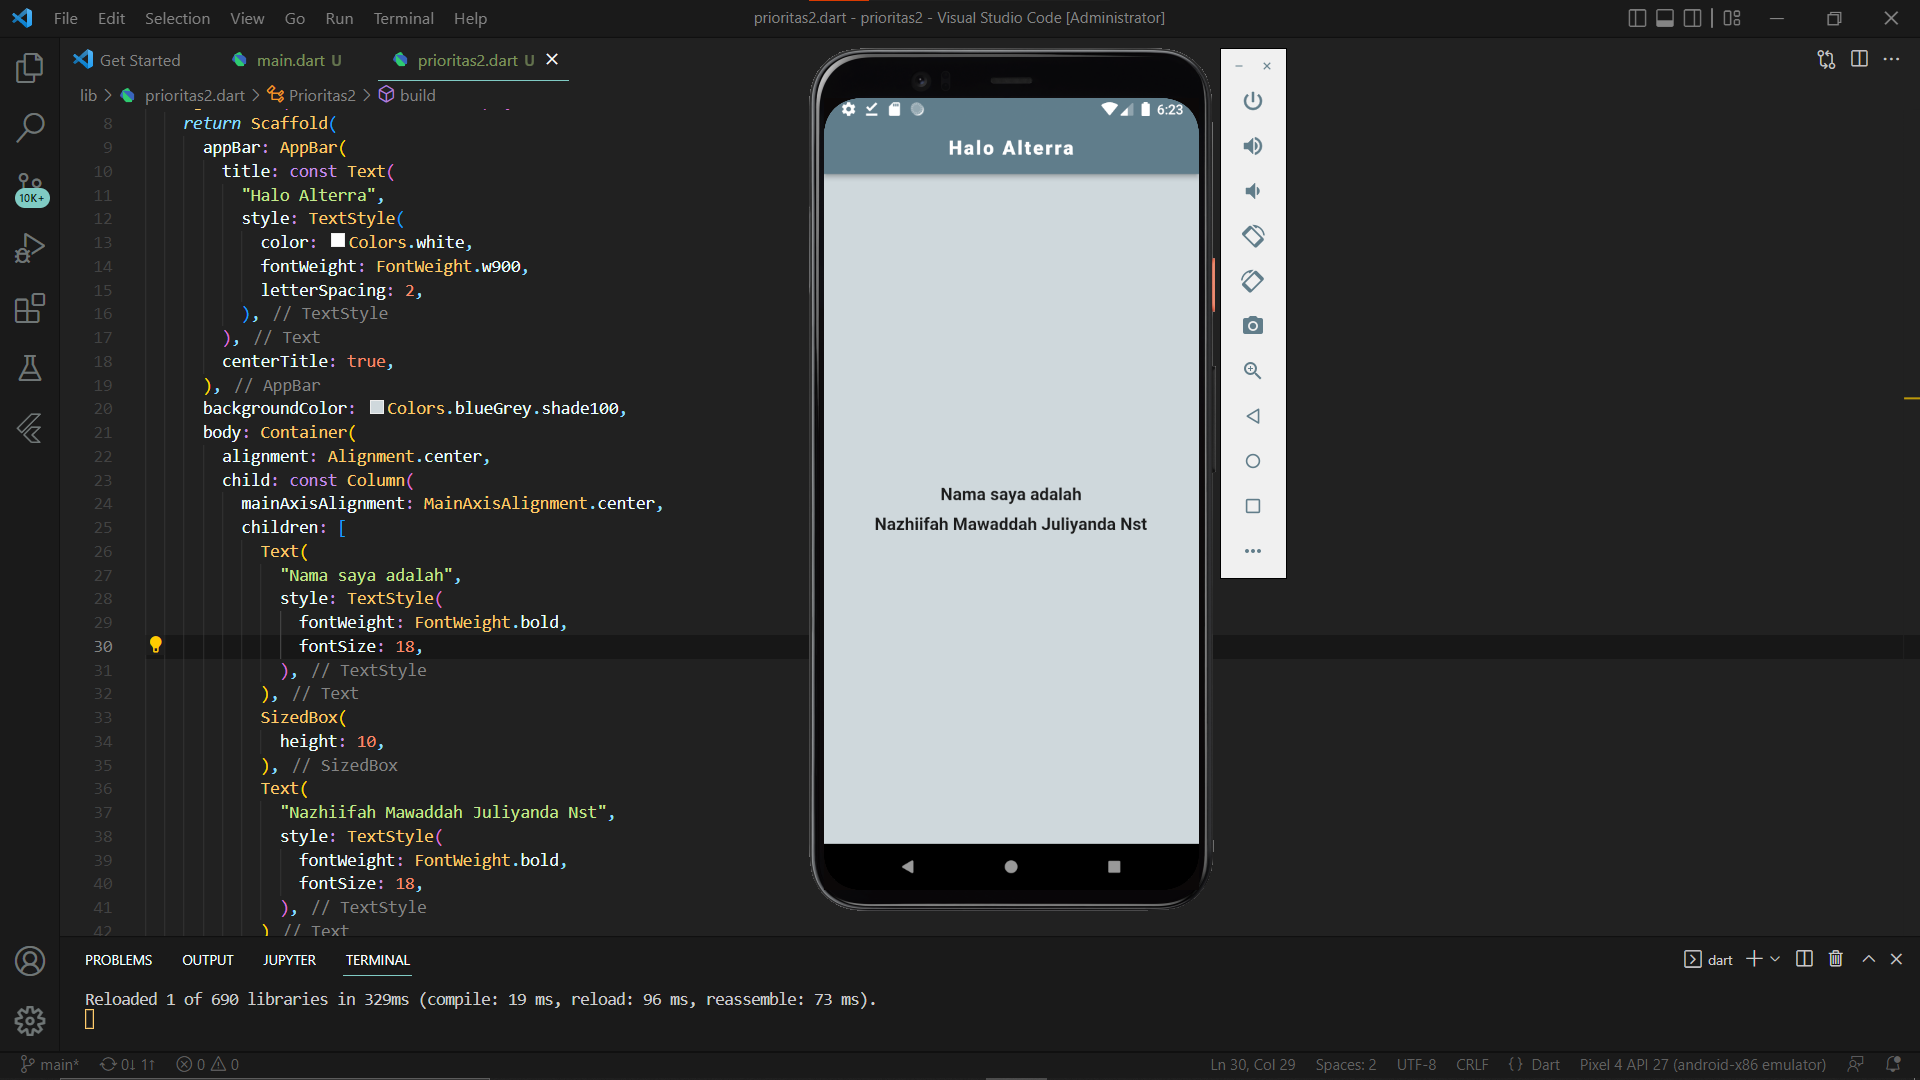
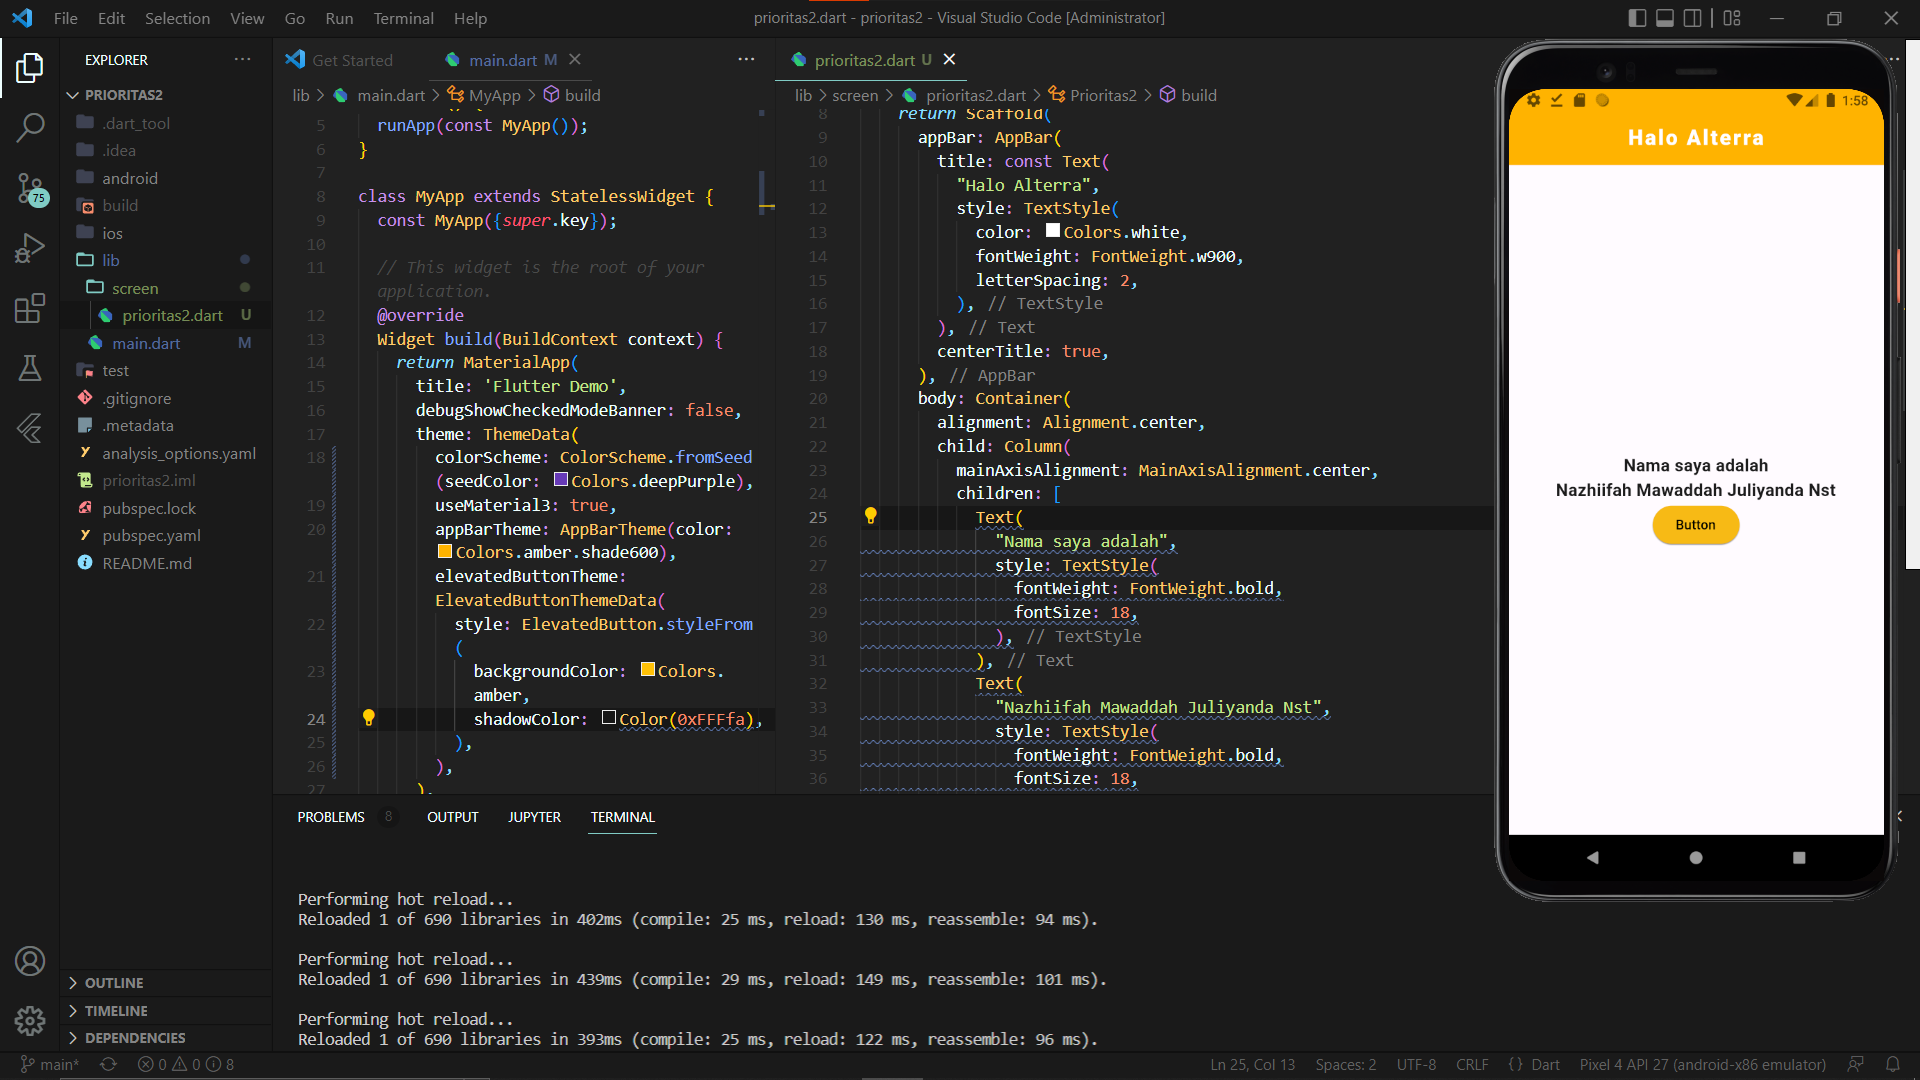
update tugas 9

diff --git a/09_Installation_Command_Line_Interface_and_Package_Management_in_Flutter/praktikum/prioritas2/lib/screen/prioritas2.dart b/09_Installation_Command_Line_Interface_and_Package_Management_in_Flutter/praktikum/prioritas2/lib/screen/prioritas2.dart
@@ -17,10 +17,9 @@ class Prioritas2 extends StatelessWidget {
         ),
         centerTitle: true,
       ),
-      backgroundColor: Colors.blueGrey.shade100,
       body: Container(
         alignment: Alignment.center,
-        child: const Column(
+        child: Column(
           mainAxisAlignment: MainAxisAlignment.center,
           children: [
             Text(
@@ -30,14 +29,20 @@ class Prioritas2 extends StatelessWidget {
                 fontSize: 18,
               ),
             ),
-            SizedBox(
-              height: 10,
-            ),
             Text(
               "Nazhiifah Mawaddah Juliyanda Nst",
               style: TextStyle(
                 fontWeight: FontWeight.bold,
                 fontSize: 18,
+              ),
+            ),
+            ElevatedButton(
+              onPressed: () {},
+              child: Text(
+                "Button",
+                style: TextStyle(
+                  color: Colors.black,
+                ),
               ),
             )
           ],

diff --git a/09_Installation_Command_Line_Interface_and_Package_Management_in_Flutter/praktikum/prioritas2/lib/main.dart b/09_Installation_Command_Line_Interface_and_Package_Management_in_Flutter/praktikum/prioritas2/lib/main.dart
@@ -1,5 +1,5 @@
 import 'package:flutter/material.dart';
-import 'package:prioritas2/prioritas2.dart';
+import 'package:prioritas2/screen/prioritas2.dart';
 
 void main() {
   runApp(const MyApp());
@@ -15,8 +15,15 @@ class MyApp extends StatelessWidget {
       title: 'Flutter Demo',
       debugShowCheckedModeBanner: false,
       theme: ThemeData(
-        primarySwatch: Colors.blueGrey,
-        useMaterial3: false,
+        colorScheme: ColorScheme.fromSeed(seedColor: Colors.deepPurple),
+        useMaterial3: true,
+        appBarTheme: AppBarTheme(color: Colors.amber.shade600),
+        elevatedButtonTheme: ElevatedButtonThemeData(
+          style: ElevatedButton.styleFrom(
+            backgroundColor: Colors.amber,
+            shadowColor: Color(0xFFFfa),
+          ),
+        ),
       ),
       home: const Prioritas2(),
     );
